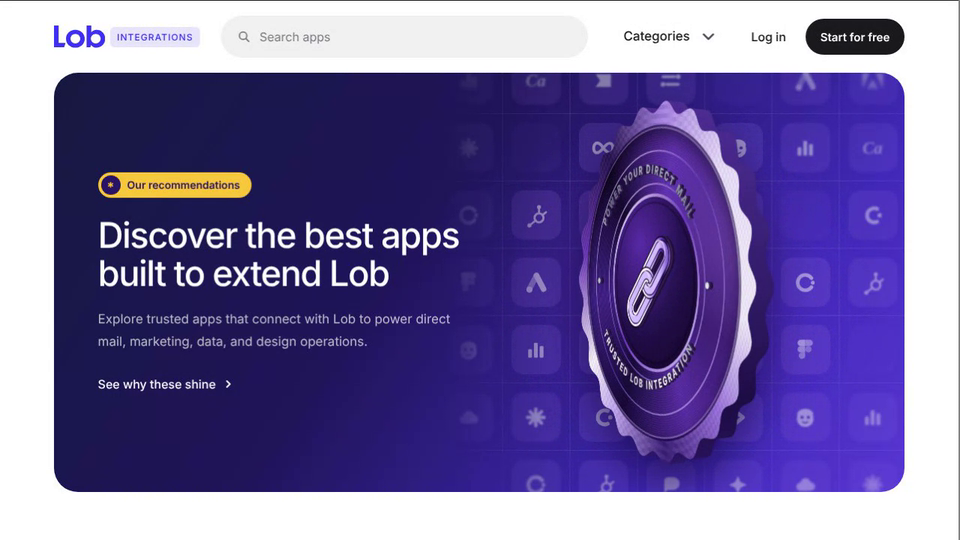
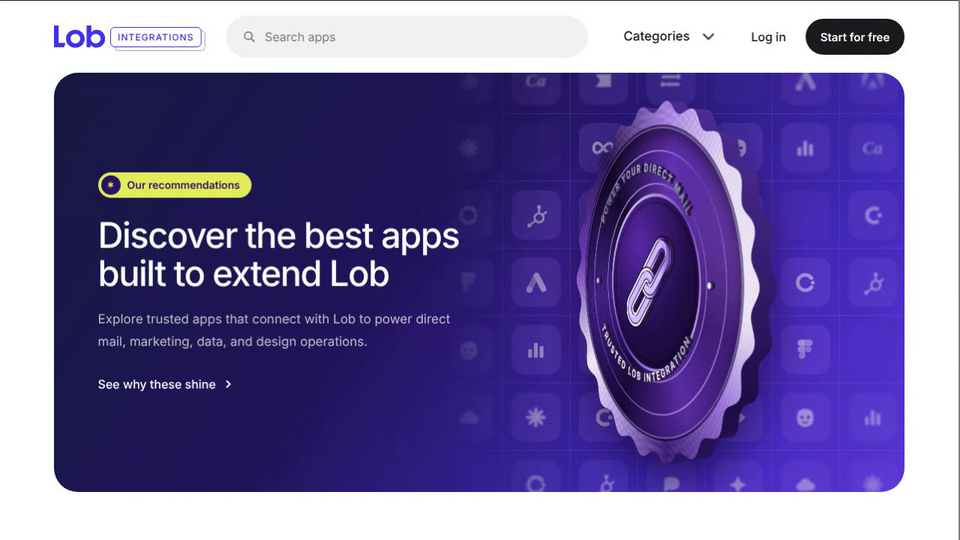
Lob Integrations Hero: lime green accents, dotted offset shadow on the Integrations label
Claude-Session: https://claude.ai/code/session_01AHeBdw5Dmhovddhvfinq8X

diff --git a/lob-integrations-hero/index.html b/lob-integrations-hero/index.html
@@ -23,9 +23,10 @@ nav.back b{font-weight:500;color:#fff;overflow:hidden;text-overflow:ellipsis}
 /* ---------- Lob marketplace header ---------- */
 :root{--gut:clamp(20px,5.6vw,72px)}
 .top{flex:none;height:96px;display:flex;align-items:center;gap:28px;padding:0 var(--gut)}
-.brand{display:flex;align-items:center;gap:7px;color:#16161a;text-decoration:none;white-space:nowrap}
+.brand{isolation:isolate;display:flex;align-items:center;gap:7px;color:#16161a;text-decoration:none;white-space:nowrap}
 .brand .logo{height:30px;width:auto;display:block}
-.brand em{font:500 12px var(--sans);font-style:normal;letter-spacing:.09em;text-transform:uppercase;background:#e9e6fb;border-radius:6px;padding:6px 9px;color:#3d2ff0;white-space:nowrap}
+.brand em{position:relative;font:500 12px var(--sans);font-style:normal;letter-spacing:.09em;text-transform:uppercase;background:#fff;border:1.5px solid #4131f1;border-radius:6px;padding:5px 9px;color:#4131f1;white-space:nowrap;margin-right:5px}
+.brand em::before{content:"";position:absolute;inset:-1.5px;border:1.5px dotted #4131f1;border-radius:6px;transform:translate(5px,5px);z-index:-1}
 .search{flex:0 1 500px;margin:0 auto;display:flex;align-items:center;gap:12px;height:56px;padding:0 22px;border-radius:99px;background:#f1f1f1;color:#7a7a82;font-size:16px;min-width:0}
 .search svg{flex:none}
 .top .links{display:flex;align-items:center;gap:26px;white-space:nowrap;font-size:16px;font-weight:500}
@@ -43,8 +44,8 @@ nav.back b{font-weight:500;color:#fff;overflow:hidden;text-overflow:ellipsis}
 .hero{color:#fff;position:relative;margin:0 var(--gut);height:560px;border-radius:32px;overflow:hidden;isolation:isolate;
   background:linear-gradient(125deg,#171a42 0%,#22155c 42%,#4129b8 78%,#5a37d4 100%)}
 .copy{position:relative;z-index:4;width:50%;height:100%;display:flex;flex-direction:column;justify-content:center;padding:0 0 0 clamp(24px,4.6vw,60px)}
-.chip{align-self:flex-start;display:inline-flex;align-items:center;gap:9px;background:#f6c93f;color:#2a1466;border-radius:99px;padding:4px 16px 4px 4px;font-size:14px;font-weight:600;margin-bottom:24px}
-.chip i{width:26px;height:26px;border-radius:50%;background:#2a1466;color:#f6c93f;display:grid;place-items:center;font:700 18px/1 var(--sans);font-style:normal;padding-top:6px}
+.chip{align-self:flex-start;display:inline-flex;align-items:center;gap:9px;background:#e4ee5c;color:#2a1466;border-radius:99px;padding:4px 16px 4px 4px;font-size:14px;font-weight:600;margin-bottom:24px}
+.chip i{width:26px;height:26px;border-radius:50%;background:#2a1466;color:#e4ee5c;display:grid;place-items:center;font:700 18px/1 var(--sans);font-style:normal;padding-top:6px}
 h1{font-weight:500;font-size:clamp(27px,3.7vw,52px);line-height:1.08;letter-spacing:-.035em;margin:0 0 22px}
 .sub{font-size:17px;line-height:1.75;color:rgba(255,255,255,.72);max-width:520px}
 .more{display:inline-flex;align-items:center;gap:10px;margin-top:30px;color:#fff;text-decoration:none;font-size:16px;font-weight:500;align-self:flex-start}.more:hover{opacity:.8}
@@ -145,7 +146,7 @@ h1{font-weight:500;font-size:clamp(27px,3.7vw,52px);line-height:1.08;letter-spac
       <a class="cat" href="#" style="--c:#5a37d4" data-dk>Data<span><svg viewBox="0 0 24 24"><ellipse cx="12" cy="6" rx="7" ry="3"/><path d="M5 6v6c0 1.7 3.1 3 7 3s7-1.3 7-3V6M5 12v6c0 1.7 3.1 3 7 3s7-1.3 7-3v-6"/></svg></span></a>
       <a class="cat" href="#" style="--c:#ddd3fa">Design<span><svg viewBox="0 0 24 24"><path d="M4 20l4-1 11-11a2.1 2.1 0 0 0-3-3L5 16l-1 4zM14 7l3 3"/></svg></span></a>
       <a class="cat" href="#" style="--c:#f8c8e3">API<span><svg viewBox="0 0 24 24"><path d="M8 7l-5 5 5 5M16 7l5 5-5 5M14 5l-4 14"/></svg></span></a>
-      <a class="cat" href="#" style="--c:#f6c93f">No Code<span><svg viewBox="0 0 24 24"><rect x="4" y="4" width="7" height="7" rx="1.5"/><rect x="13" y="4" width="7" height="7" rx="1.5"/><rect x="4" y="13" width="7" height="7" rx="1.5"/><path d="M16.5 14v6M13.5 17h6"/></svg></span></a>
+      <a class="cat" href="#" style="--c:#e4ee5c">No Code<span><svg viewBox="0 0 24 24"><rect x="4" y="4" width="7" height="7" rx="1.5"/><rect x="13" y="4" width="7" height="7" rx="1.5"/><rect x="4" y="13" width="7" height="7" rx="1.5"/><path d="M16.5 14v6M13.5 17h6"/></svg></span></a>
     </div>
   </section>
 </main>
